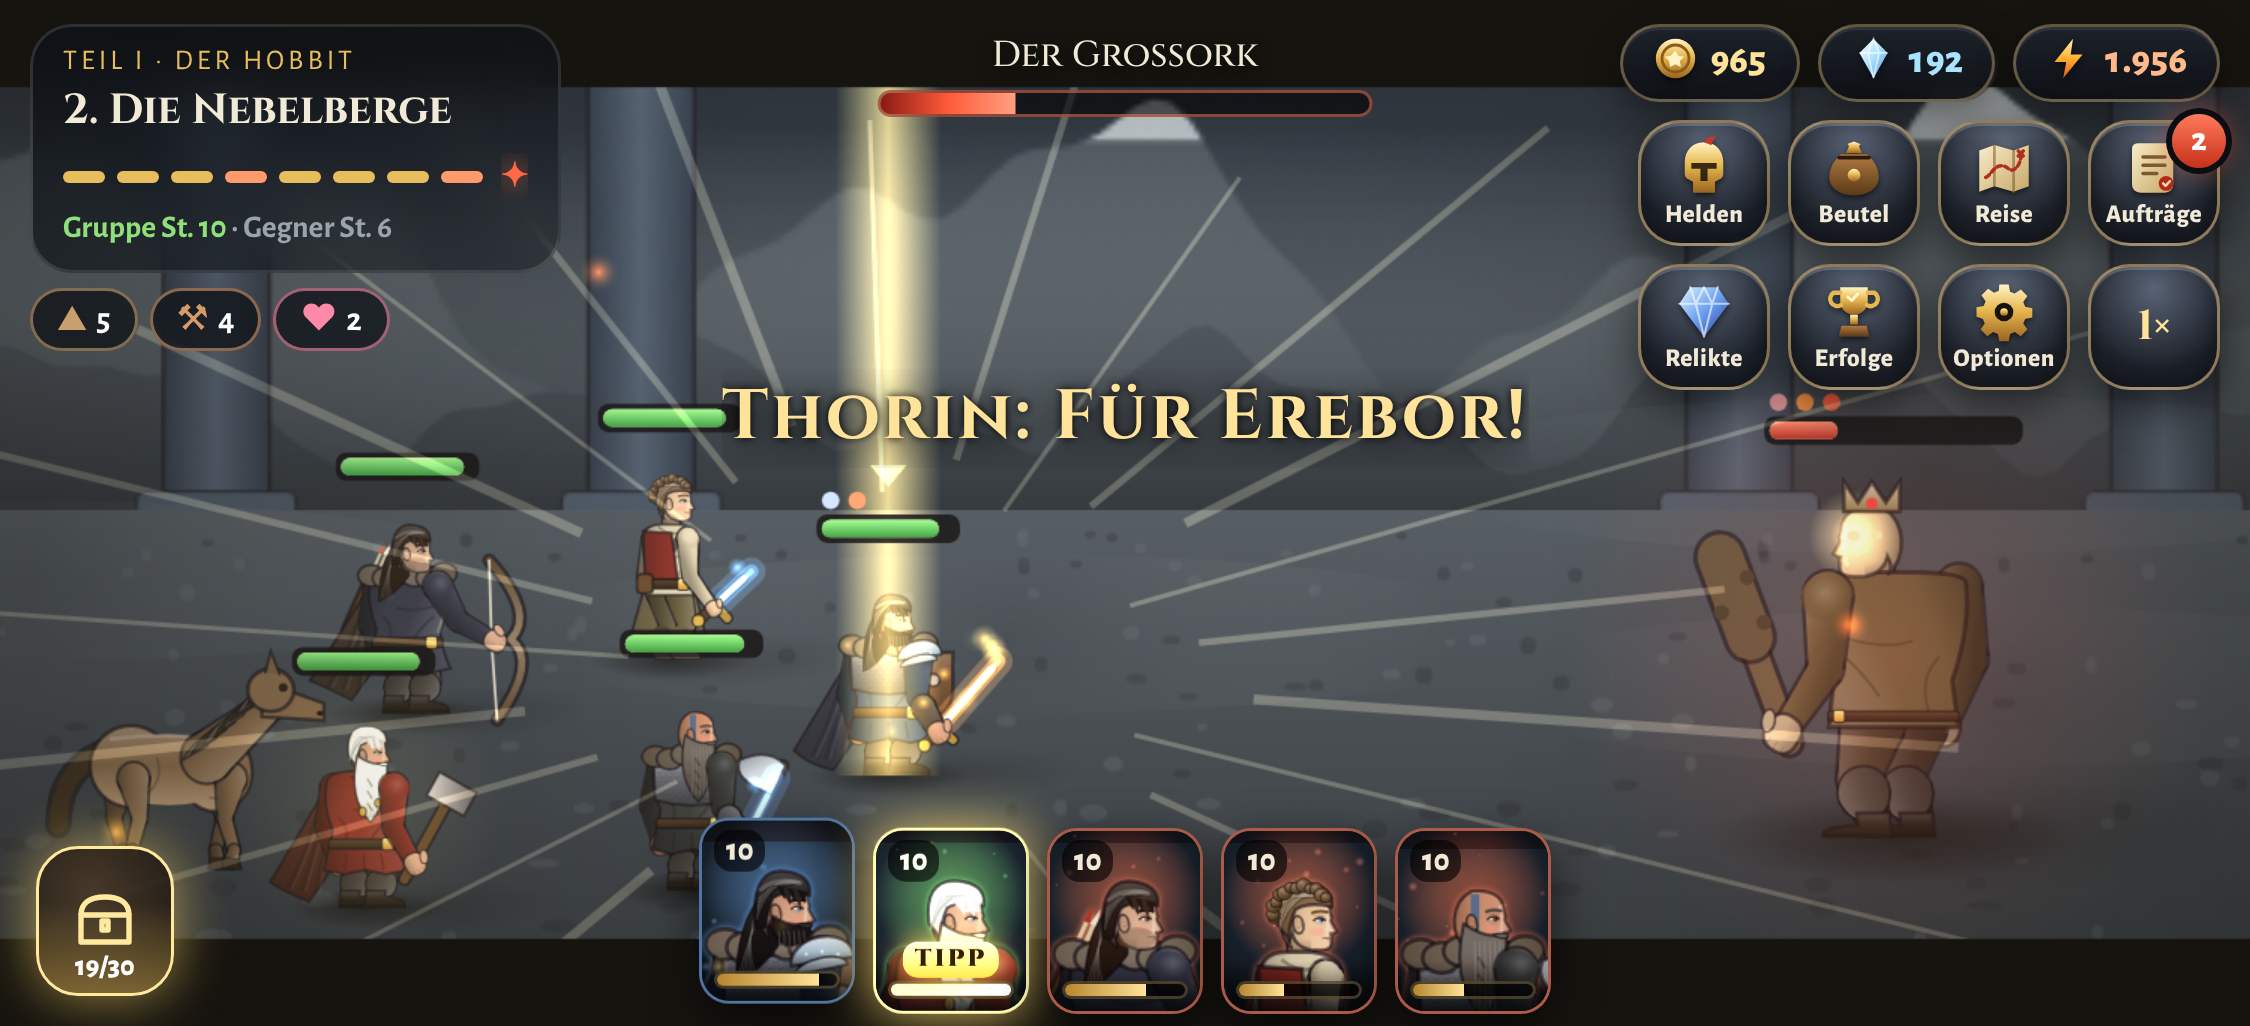
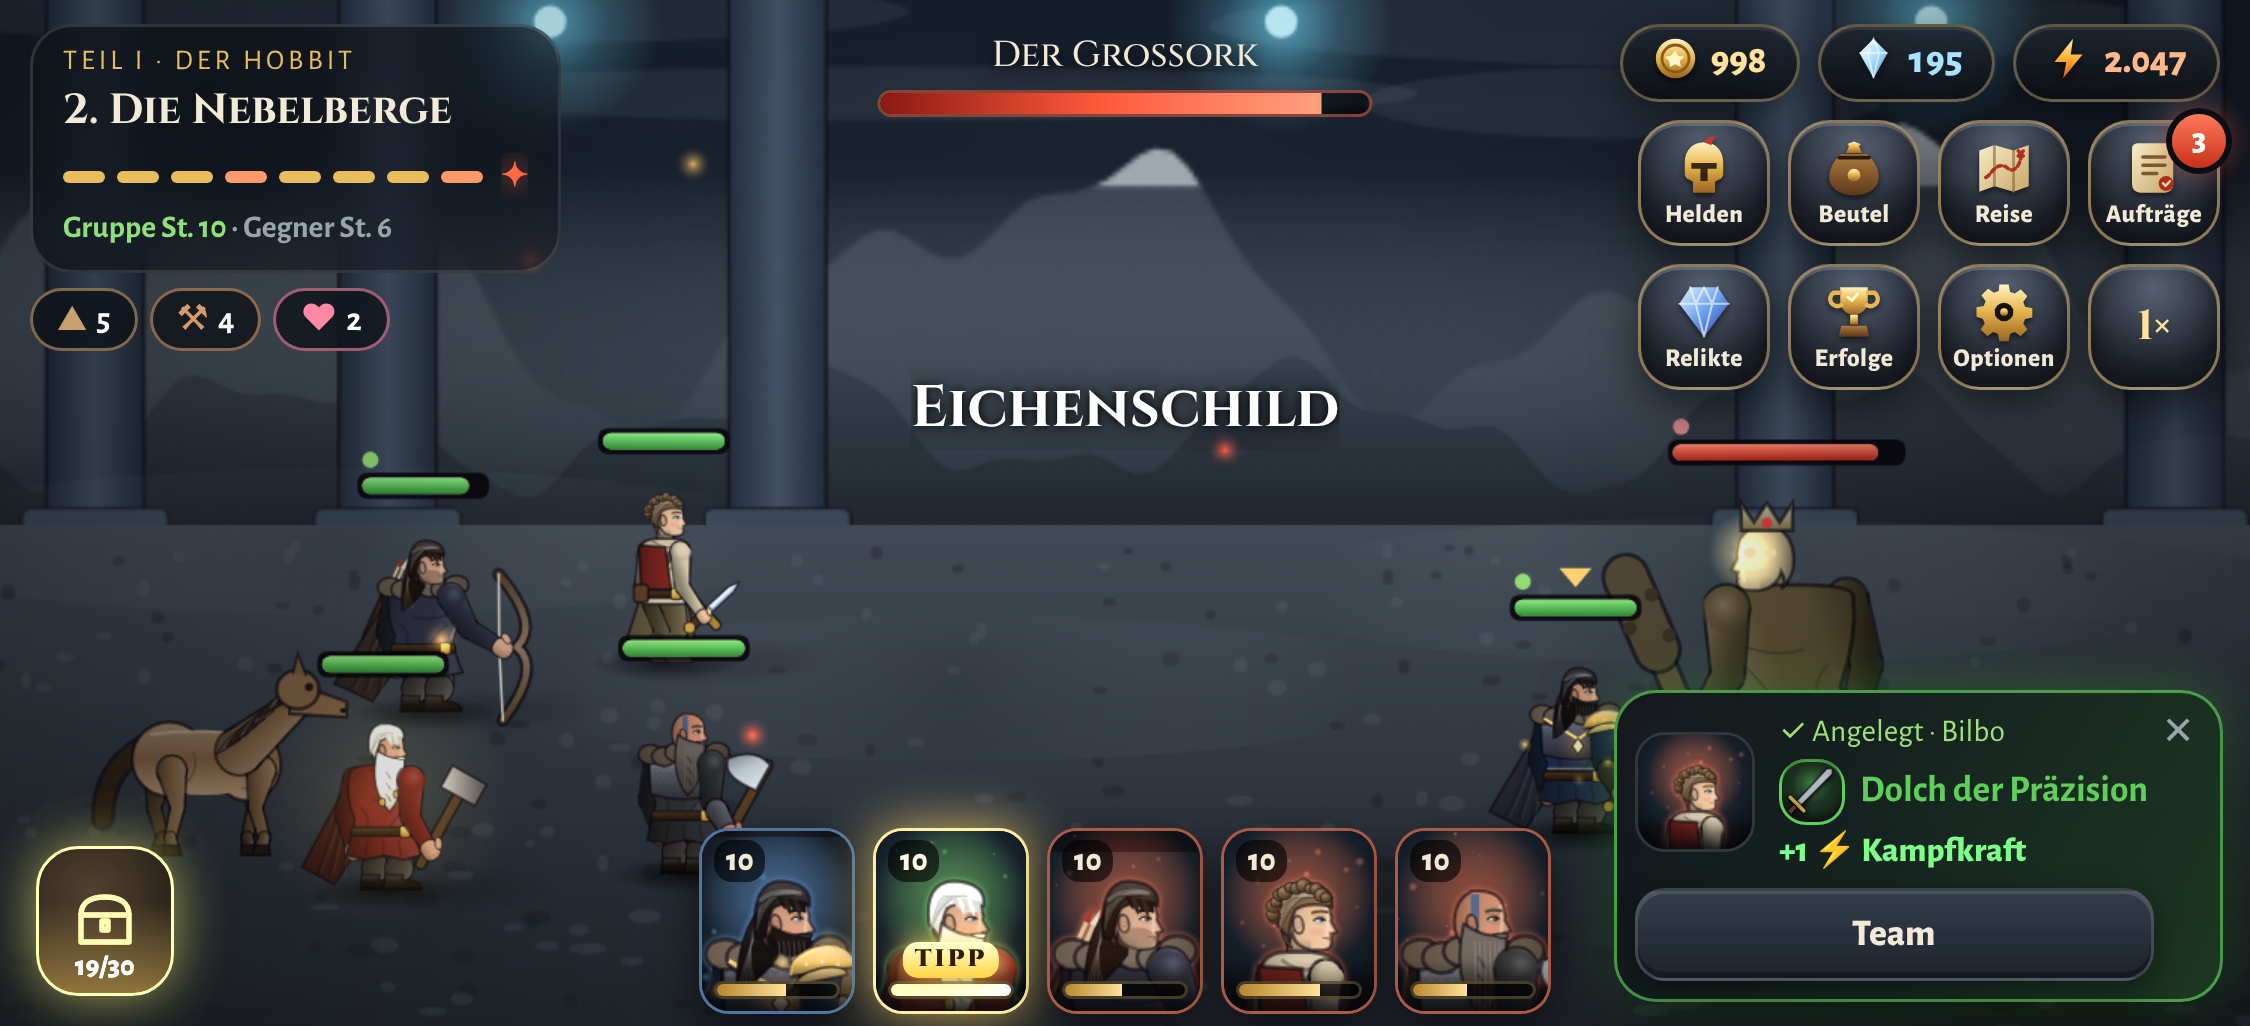
Wuchtigere Angriffe: Nachbilder, Funkenschlag, Bodenrisse, Runenkreise
- Bewegungsnachbilder beim Vorstürmen
- Funkenstreifen und Lichtblitz bei jedem Nahkampftreffer
- Glühende Bodenrisse mit Staub und Beben bei Ultimates und schweren Hieben
- Rotierende Runenkreise mit Pentagramm unter Zaubernden

Claude-Session: https://claude.ai/code/session_013CMDwHUxvqhbScGoinLXuV

diff --git a/js/world.js b/js/world.js
@@ -367,7 +367,7 @@ class World {
           if (!tgs.length) break;
           this.setAnim(u, 'attack'); await this.wait(RIG.impactTime('attack'));
           sfx(sk.fx === 'stone' ? 'blunt' : 'swing');
-          for (const t of tgs) { this.fxs.push({ k: 'slash', x: t.x + t.ox, y: t.y + t.oy - t.h * .55, r: t.big ? 14 : 7, dir: -dir, t: 0, dur: 180 }); if (sk.fx !== 'slash') this.burst(t.x + t.ox, t.y + t.oy - t.h * .5, sk.fx, 8); doHit(t); }
+          for (const t of tgs) { this.impact(t, -dir, isUlt || (sk.dmg || 0) >= 2); this.fxs.push({ k: 'slash', x: t.x + t.ox, y: t.y + t.oy - t.h * .55, r: t.big ? 14 : 7, dir: -dir, t: 0, dur: 180 }); if (sk.fx !== 'slash') this.burst(t.x + t.ox, t.y + t.oy - t.h * .5, sk.fx, 8); doHit(t); }
           await this.wait(hits > 1 ? 180 : 260);
         }
         if (alive(u)) { this.setAnim(u, 'walk'); await this.moveTo(u, u.x, u.y, 260); this.setAnim(u, 'idle'); }
@@ -549,6 +549,7 @@ class World {
     if (this.walking && this.time - (this._dust || 0) > 220) { this._dust = this.time; for (const h of this.heroes) if (alive(h) && Math.random() < .6) this.burst(h.x + h.ox - 3, h.y + h.oy - 1, 'stone', 2, .35, .15); }
     for (const f of this.fxs) if (f.under) this.drawFx(f);
     this.drawCompanion(ctx, gt);
+    if (this.hq()) for (const u of units) this.drawCastFx(u);
     for (const u of units) this.drawUnit(u, gt);
     for (const u of units) this.drawTrail(u);
     for (const f of this.fxs) if (!f.under) this.drawFx(f);
@@ -646,6 +647,21 @@ class World {
     const k = lm.k, w = lm.w * k, h = lm.h * k, span = this.LW + w + 60; let X = this.LW * .6 - w / 2 - ((this.scroll * .05) % span + span) % span; if (X < -w - 30) X += span;
     const Y = L.HZ + YO - h + lm.base * k + 2; ctx.save(); ctx.translate(X, Y); ctx.scale(k, k); ctx.drawImage(lm.cv, 0, 0, lm.w, lm.h); if (lm.anim) lm.anim(ctx, 0, 0, gt); ctx.restore();
   }
+  impact(t, dir, heavy) {
+    const x = t.x + t.ox, y = t.y + t.oy - t.h * .5, n = heavy ? 16 : 9;
+    for (let i = 0; i < n; i++) { const a = (dir > 0 ? 0 : Math.PI) + rnd(-1.1, 1.1), sp = rnd(1.2, heavy ? 3.4 : 2.4); this.parts.push({ x, y, vx: Math.cos(a) * sp, vy: Math.sin(a) * sp - .4, g: .05, t: 0, life: rnd(180, 360), c: pick(['#fff6d0', '#ffd27a', '#ffffff']), s: 1, streak: 1 }); }
+    this.fxs.push({ k: 'burst', x, y, r: heavy ? 16 : 10, c: '#ffffff', t: 0, dur: 150 });
+    if (heavy) { this.fxs.push({ k: 'crack', x: t.x + t.ox, y: t.y + t.oy, r: t.big ? 30 : 20, t: 0, dur: 1100, seed: Math.random() * 1000 }); this.burst(t.x + t.ox, t.y + t.oy - 1, 'stone', 12, 1.4, .35); this.shake(2.5); }
+  }
+  drawCastFx(u) {
+    if (!alive(u) || u.anim.n !== 'cast') return; const el = u.anim.el, k = Math.min(1, el / 380), out = Math.max(0, (el - 560) / 160); if (out >= 1) return;
+    const ctx = this.ctx, x = u.x + u.ox, y = u.y + u.oy, R = 9 + u.w * .7, col = u.side === 'hero' ? (u.look.glowC || '#ffd070') : '#ff5a3a', rot = this.time / 650;
+    ctx.save(); ctx.globalCompositeOperation = 'lighter'; ctx.globalAlpha = .8 * k * (1 - out); ctx.translate(x, y); ctx.scale(1, .3);
+    const g = ctx.createRadialGradient(0, 0, 0, 0, 0, R); g.addColorStop(0, RIG.rgba(col, .4)); g.addColorStop(1, RIG.rgba(col, 0)); ctx.fillStyle = g; ctx.beginPath(); ctx.arc(0, 0, R, 0, Math.PI * 2); ctx.fill();
+    ctx.strokeStyle = col; ctx.lineWidth = .9; ctx.beginPath(); ctx.arc(0, 0, R * k, 0, Math.PI * 2); ctx.stroke(); ctx.lineWidth = .45; ctx.beginPath(); ctx.arc(0, 0, R * .72 * k, 0, Math.PI * 2); ctx.stroke();
+    ctx.rotate(rot); for (let i = 0; i < 16; i++) { ctx.rotate(Math.PI / 8); ctx.beginPath(); ctx.moveTo(R * .75, 0); ctx.lineTo(R * .95, i % 2 ? 1.6 : -1.6); ctx.stroke(); }
+    ctx.rotate(-rot * 2.4); ctx.beginPath(); for (let i = 0; i <= 5; i++) { const a = i * 4 * Math.PI / 5 - Math.PI / 2; ctx.lineTo(Math.cos(a) * R * .7 * k, Math.sin(a) * R * .7 * k); } ctx.stroke(); ctx.restore();
+  }
   drawTrail(u) {
     const a = u.anim; if (!alive(u) || a.n !== 'attack' || ['bow', 'staff'].includes(u.look.wpn) || u.type !== 'hum') return;
     const k = (a.el - 150) / 260; if (k < 0 || k > 1) return;
@@ -664,6 +680,8 @@ class World {
     const fly = hasS(u, 'fly') ? 14 + Math.sin(gt / 260) * 3 : 0;
     if (this.hq()) {
       const img = this.litSprite(u, gt);
+      const gp = u._gp || (u._gp = []); if (!gp.length || this.time - gp[gp.length - 1].t > 26) { gp.push({ x, y: y - fly, t: this.time }); if (gp.length > 5) gp.shift(); }
+      if (gp.length > 2 && Math.abs(gp[0].x - x) > 7 && this.time - gp[0].t < 200 && alive(u)) { ctx.save(); ctx.globalCompositeOperation = 'lighter'; for (let i = 0; i < gp.length - 1; i++) { ctx.globalAlpha = (.08 + i * .05) * u.fade; ctx.drawImage(img.cv, gp[i].x - img.ax, gp[i].y - img.ay, img.bw, img.bh); } ctx.restore(); }
       ctx.save(); ctx.globalAlpha = u.fade * (hasS(u, 'invis') ? .38 : 1) * (u.look.ghost ? .62 : 1);
       if (u.look.ghost) { ctx.shadowColor = 'rgba(160,255,210,.9)'; ctx.shadowBlur = 8 * this.s; }
       ctx.drawImage(img.cv, x - img.ax, y - fly - img.ay, img.bw, img.bh);
@@ -730,6 +748,7 @@ class World {
   drawParts(ctx) {
     for (const p of this.parts) {
       const a = p.amb ? .85 : Math.max(0, 1 - p.t / p.life);
+      if (p.streak) { ctx.globalCompositeOperation = 'lighter'; ctx.globalAlpha = a; ctx.strokeStyle = p.c; ctx.lineWidth = .55; ctx.lineCap = 'round'; ctx.beginPath(); ctx.moveTo(p.x, p.y); ctx.lineTo(p.x - p.vx * 2.6, p.y - p.vy * 2.6); ctx.stroke(); ctx.globalCompositeOperation = 'source-over'; continue; }
       if (p.amb === 'rain') { ctx.globalAlpha = .5; ctx.strokeStyle = p.c; ctx.lineWidth = .35; ctx.beginPath(); ctx.moveTo(p.x, p.y); ctx.lineTo(p.x - p.vx * 1.6, p.y - p.vy * 1.6); ctx.stroke(); continue; }
       const glow = p.glow || p.amb === 'embers' || p.amb === 'fireflies';
       if (glow) { ctx.globalCompositeOperation = 'lighter'; ctx.globalAlpha = a * (p.amb === 'fireflies' ? .5 + .5 * Math.sin(p.t / 200) : 1); const r = (p.s || 1) * 2.4; const g = ctx.createRadialGradient(p.x, p.y, 0, p.x, p.y, r); g.addColorStop(0, p.c); g.addColorStop(1, 'rgba(0,0,0,0)'); ctx.fillStyle = g; ctx.beginPath(); ctx.arc(p.x, p.y, r, 0, Math.PI * 2); ctx.fill(); ctx.globalCompositeOperation = 'source-over'; }
@@ -750,7 +769,9 @@ class World {
   drawFx(f) {
     const ctx = this.ctx, k = f.t / f.dur;
     ctx.save();
-    if (f.k === 'rays') { ctx.globalCompositeOperation = 'lighter'; ctx.translate(f.x, f.y); ctx.rotate(this.time / 1100); const a = Math.sin(Math.min(1, k * 1.4) * Math.PI); for (let i = 0; i < 14; i++) { ctx.rotate(Math.PI / 7); const len = 70 + (i % 3) * 26, g = ctx.createLinearGradient(0, 0, len, 0); g.addColorStop(0, `rgba(255,244,210,${.55 * a})`); g.addColorStop(1, 'rgba(255,244,210,0)'); ctx.fillStyle = g; ctx.beginPath(); ctx.moveTo(0, 0); ctx.lineTo(len, -3 - (i % 3) * 2.5); ctx.lineTo(len, 3 + (i % 3) * 2.5); ctx.fill(); } const g2 = ctx.createRadialGradient(0, 0, 0, 0, 0, 26); g2.addColorStop(0, `rgba(255,255,240,${.8 * a})`); g2.addColorStop(1, 'rgba(255,240,200,0)'); ctx.fillStyle = g2; ctx.beginPath(); ctx.arc(0, 0, 26, 0, Math.PI * 2); ctx.fill(); }
+    if (f.k === 'crack') { const a = k < .1 ? k / .1 : 1 - Math.max(0, (k - .5) / .5); let sd = f.seed; const R = () => { sd = (sd * 9301 + 49297) % 233280; return sd / 233280; }; ctx.translate(f.x, f.y); ctx.scale(1, .3); ctx.lineCap = 'round';
+      for (let i = 0; i < 7; i++) { const ang = i / 7 * Math.PI * 2 + R() * .5; let px = 0, py = 0; ctx.beginPath(); ctx.moveTo(0, 0); for (let j = 1; j <= 4; j++) { const rr = f.r * j / 4 * (.6 + R() * .5); px = Math.cos(ang + (R() - .5) * .5) * rr; py = Math.sin(ang + (R() - .5) * .5) * rr; ctx.lineTo(px, py); } ctx.globalAlpha = a * .8; ctx.strokeStyle = 'rgba(10,6,4,.9)'; ctx.lineWidth = 1.6; ctx.stroke(); ctx.globalCompositeOperation = 'lighter'; ctx.strokeStyle = `rgba(255,140,60,${.7 * (1 - k)})`; ctx.lineWidth = .5; ctx.stroke(); ctx.globalCompositeOperation = 'source-over'; } }
+    else if (f.k === 'rays') { ctx.globalCompositeOperation = 'lighter'; ctx.translate(f.x, f.y); ctx.rotate(this.time / 1100); const a = Math.sin(Math.min(1, k * 1.4) * Math.PI); for (let i = 0; i < 14; i++) { ctx.rotate(Math.PI / 7); const len = 70 + (i % 3) * 26, g = ctx.createLinearGradient(0, 0, len, 0); g.addColorStop(0, `rgba(255,244,210,${.55 * a})`); g.addColorStop(1, 'rgba(255,244,210,0)'); ctx.fillStyle = g; ctx.beginPath(); ctx.moveTo(0, 0); ctx.lineTo(len, -3 - (i % 3) * 2.5); ctx.lineTo(len, 3 + (i % 3) * 2.5); ctx.fill(); } const g2 = ctx.createRadialGradient(0, 0, 0, 0, 0, 26); g2.addColorStop(0, `rgba(255,255,240,${.8 * a})`); g2.addColorStop(1, 'rgba(255,240,200,0)'); ctx.fillStyle = g2; ctx.beginPath(); ctx.arc(0, 0, 26, 0, Math.PI * 2); ctx.fill(); }
     else if (f.k === 'light') { ctx.globalCompositeOperation = 'lighter'; const a = (1 - k) * (1 - k) * (f.a || .25), g = ctx.createRadialGradient(f.x, f.y, 0, f.x, f.y, f.r); g.addColorStop(0, RIG.rgba(f.c, a)); g.addColorStop(.5, RIG.rgba(f.c, a * .35)); g.addColorStop(1, RIG.rgba(f.c, 0)); ctx.fillStyle = g; ctx.fillRect(f.x - f.r, f.y - f.r, f.r * 2, f.r * 2); }
     else if (f.k === 'slash') { ctx.globalCompositeOperation = 'lighter'; ctx.translate(f.x, f.y); ctx.scale(f.dir, 1); const st = -1.6 + k * .9, en = st + 2.2 * Math.min(1, k * 2.2); ctx.lineCap = 'round'; for (const [w, col] of [[3.2, 'rgba(160,200,255,.35)'], [1.4, 'rgba(255,255,255,.95)']]) { ctx.globalAlpha = 1 - k; ctx.strokeStyle = col; ctx.lineWidth = w * (1 - k * .6); ctx.beginPath(); ctx.arc(0, 0, f.r, st, en); ctx.stroke(); } }
     else if (f.k === 'bolt') { ctx.globalCompositeOperation = 'lighter'; ctx.lineJoin = 'round'; const pts = f.pts || (f.pts = Array.from({ length: 9 }, (_, i) => [f.x + (f.tx - f.x) * i / 8 + (i && i < 8 ? rnd(-4, 4) : 0), f.y + (f.ty - f.y) * i / 8 + (i && i < 8 ? rnd(-3, 3) : 0)])); if (Math.random() < .3) f.pts = null; for (const [w, col] of [[3, 'rgba(100,170,255,.4)'], [1, '#ffffff']]) { ctx.globalAlpha = 1 - k * .7; ctx.strokeStyle = col; ctx.lineWidth = w; ctx.beginPath(); pts.forEach((p, i) => i ? ctx.lineTo(...p) : ctx.moveTo(...p)); ctx.stroke(); } }

diff --git a/sw.js b/sw.js
@@ -1,5 +1,5 @@
 /* Ringfahrt – Offline-Cache. Version erhöhen, wenn sich Dateien ändern. */
-const V = 'ringfahrt-v14';
+const V = 'ringfahrt-v15';
 const SHELL = ['./', './index.html', './manifest.webmanifest', './js/data.js', './js/render.js', './js/core.js', './js/world.js', './js/ui.js', './icons/icon-180.png', './icons/icon-192.png', './icons/icon-512.png'];
 self.addEventListener('install', e => { e.waitUntil(caches.open(V).then(c => c.addAll(SHELL)).then(() => self.skipWaiting())); });
 self.addEventListener('activate', e => { e.waitUntil(caches.keys().then(ks => Promise.all(ks.filter(k => k !== V).map(k => caches.delete(k)))).then(() => self.clients.claim())); });
